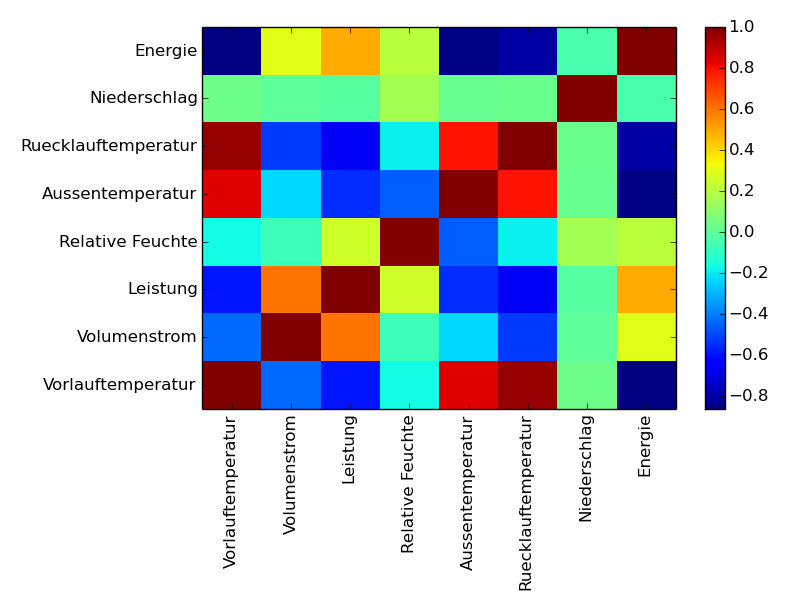
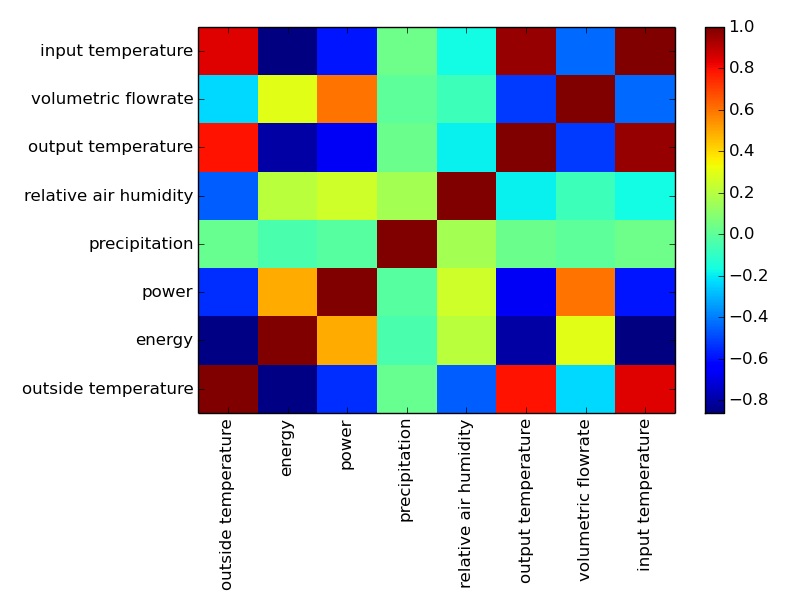
prediction added, not validated

diff --git a/random_trees/predict.py b/random_trees/predict.py
@@ -1,0 +1,103 @@
+#!/usr/bin/env python
+
+from imp import load_source
+from random import randrange, random
+import numpy as np
+from datetime import datetime, timedelta
+import pylab
+import pandas as pd
+import matplotlib.pyplot as plt
+from sklearn.ensemble import RandomForestRegressor
+
+#import dataset
+#equivalent to:
+#import ../helpers/csvimport as helper
+helper = load_source('dsimport', '../helpers/helper.py')
+
+ds = helper.dsimport()
+
+# ds = helper.stretch(ds)
+
+df = pd.DataFrame(ds)
+df.set_index(df.Date, inplace=True)
+df.fillna(inplace=True, method='ffill')#we at first forwardfill
+df.fillna(inplace=True, method='bfill')#then do a backwards fill
+df = df.resample('2Min')
+
+
+max_idx = df.index[-1] - timedelta(hours = 9)
+
+def random_frameset(ds, timedelta_input, timedelta_output, to_predict):
+    """Returns an input and an adjacent output frame with a given size
+    example call:
+    timedelta_input = timedelta(hours = 3)
+    timedelta_output =  timedelta(hours = 1)
+    to_predict = ['Energie', 'Leistung']
+    in_frame, out_frame = random_frameset(ds, timedelta_input, timedelta_output, to_predict)"""
+
+    max_time = df.index[-1] - timedelta_input - timedelta_output
+    max_r = df[:max_time].shape[0]
+    r = int(random() * max_r)
+
+    start = df.index[r]
+    now = start + timedelta_input
+    prediction_goal = now+timedelta_output
+
+    input_frame = df[start:(start+timedelta_input)]
+    output_frame = df[now:prediction_goal]
+
+    for k in output_frame.keys():
+        if k not in to_predict:
+            del output_frame[k]
+
+    return input_frame, output_frame
+
+
+
+#split off the last timedelta as test data
+
+timedelta_input = timedelta(hours = 3)
+timedelta_output =  timedelta(hours = 1)
+to_predict = ['Energie', 'Leistung']
+
+end = df.index[-1]
+last = end - timedelta_input - timedelta_output
+
+#cutting off the last 4 hours is probably too little to predcit
+train_frame = df[:last]
+validation_frame = df[last:]
+
+
+#sampling the "function"
+input = []
+output = []
+for _ in range(5000):
+    in_frame, out_frame = random_frameset(train_frame, timedelta_input, timedelta_output, to_predict)
+
+    in_matrix = in_frame.as_matrix().flatten()
+    out_matrix = out_frame.as_matrix().flatten()
+    #TODO: check for nan values here
+    if not np.any(np.isnan(in_matrix)) and not np.any(np.isnan(out_matrix)):
+
+        input.append(in_matrix)
+        output.append(out_matrix)
+
+input = np.asarray(input)#TODO check whether this is possible
+output = np.asarray(output)
+
+#TODO:
+# forest = RandomForestRegressor(n_estimators = 100)
+# forest = forest.fit(input, output)
+
+#what to put in here?
+start = validation_frame.index[0]
+validation_in = validation_frame[start:start+timedelta_input]
+validation_out = validation_frame[start+timedelta_input:start+timedelta_input+timedelta_output]
+for k in validation_out.keys():
+    if k not in to_predict:
+        del validation_out[k]
+
+validation_in = validation_in.as_matrix().flatten()
+validation_out = validation_out.as_matrix().flatten()
+#TODO: debug
+# predicted_output = forest.predict(validation_in)

diff --git a/random_trees/correllation.py b/random_trees/correllation.py
@@ -5,6 +5,7 @@ from numpy import corrcoef, sum, log, arange
 from random import randrange
 # import numpy as np
 from pylab import pcolor, show, colorbar, xticks, yticks, tight_layout
+import pandas as pd
 
 #import dataset
 #equivalent to:
@@ -13,17 +14,18 @@ helper = load_source('dsimport', '../helpers/helper.py')
 
 ds = helper.dsimport()
 
-ds = helper.stretch(ds)
+df = pd.DataFrame(ds)
 
-values, _ = helper.split(ds, ['Date'])
+df = pd.DataFrame(ds)
+df.set_index(df.Date, inplace=True)
+df.fillna(inplace=True, method='ffill')#we at first forwardfill
+df.fillna(inplace=True, method='bfill')#then do a backwards fill
 
-matrix, keys = helper.as_matrix(values)
-
-corrmatrix = corrcoef(matrix.T)
-
-pcolor(corrmatrix)
+cm = df.corr()
+pcolor(cm)
 colorbar()
-yticks(arange(0.5,8.5),helper.translate(keys), rotation='horizontal')
-xticks(arange(0.5,8.5),helper.translate(keys), rotation='vertical')
+
+yticks(arange(0.5,8.5),helper.translate(cm.columns.values), rotation='horizontal')
+xticks(arange(0.5,8.5),helper.translate(cm.columns.values), rotation='vertical')
 tight_layout()
 show()

diff --git a/random_trees/randomtree.py b/random_trees/randomtree.py
@@ -57,6 +57,8 @@ test_set, _ = helper.as_matrix(test_set)
 
 
 #train forest
+#TODO: This is nonesense, because the value to predict is inside the input value
+#TODO: shift values to predict
 forest = RandomForestRegressor(n_estimators = 100)
 forest = forest.fit(train_set, train_out)
 output = forest.predict(test_set)
@@ -69,7 +71,7 @@ for i in range(output.shape[1]):
     pylab.plot(test_out[:, i], color = 'red')
 
     pylab.tight_layout()
-    pylab.savefig('../img/prediction-' + str(int(test_percentage/hour))+ helper.translate(output_keys[i]) + '.png')
+    pylab.savefig('../img/regression-' + str(int(test_percentage/hour))+ helper.translate(output_keys[i]) + '.png')
     # pylab.show()
 
 print forest.score(test_set, test_out)

diff --git a/helpers/helper.py b/helpers/helper.py
@@ -345,6 +345,8 @@ def translate(word):
     Also works for lists of german feature names"""
     if isinstance(word, list):
         return map(translate, word)
+    if isinstance(word, np.ndarray):
+        return translate(word.tolist())
 
     dict = {
     'Vorlauftemperatur':'input temperature',

diff --git a/random_trees/stabilisation.py b/random_trees/stabilisation.py
@@ -1,3 +1,5 @@
+#!/usr/bin/env python
+
 from imp import load_source
 from random import randrange
 import numpy as np
